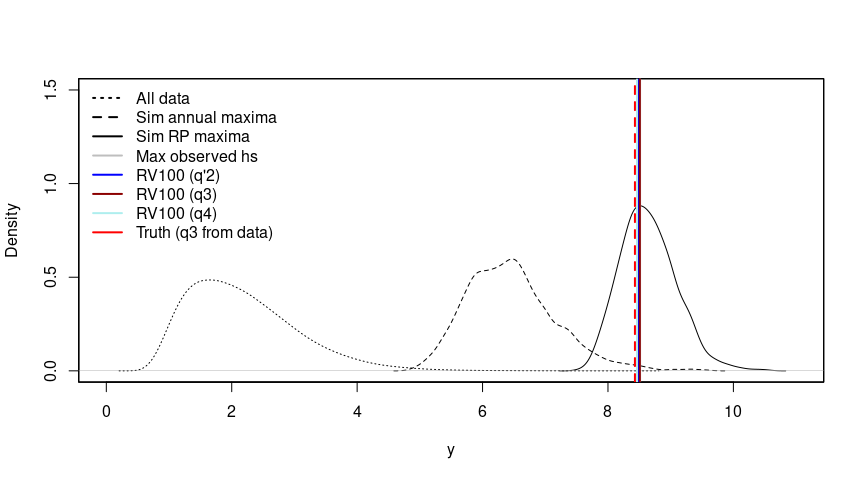
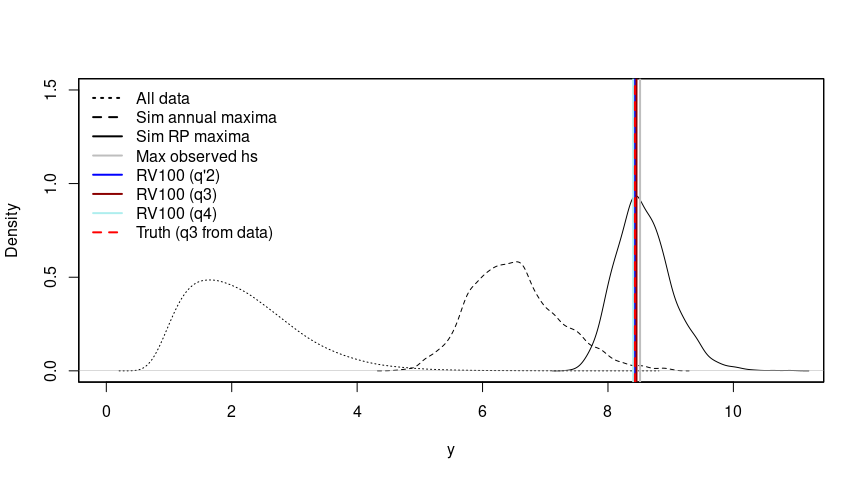
updated README

diff --git a/README.md b/README.md
@@ -58,7 +58,7 @@ system.time(df_pick <- peak_picking(ds, peak_picking_thr_model_fml,
     ## [1] "find peaks for combined storms"
 
     ##    user  system elapsed 
-    ## 277.939  26.749 304.740
+    ## 288.060  26.099 314.294
 
 ``` r
 # additional variables were added, i.e. exc, thr, and storm_idx
@@ -98,7 +98,7 @@ system.time(res_bstrp <- run_bootstrap_storms_pots(df = df_pick$storms,
 ```
 
     ##    user  system elapsed 
-    ##   7.862   0.073   7.937
+    ##  10.632   0.086  10.718
 
 ``` r
 bstrp_storms_lst <- res_bstrp$boot_samples
@@ -205,7 +205,7 @@ dhs <- diagnose_margs_preds_density(preds_margs_lst, "hs", bw=.1, xlim=c(5,40))
 
     ## [1] "summary maxes:"
     ##    Min. 1st Qu.  Median    Mean 3rd Qu.    Max. 
-    ##   11.38   13.67   14.69   15.19   15.96   37.86
+    ##   11.51   13.64   14.60   15.19   15.86   80.01
 
 ``` r
 abline(v = max(df_pick$pots$hs), col = "gray", lwd = 2)
@@ -545,9 +545,9 @@ cat(sprintf("Low sector: %.2f\nHigh sector: %.2f\nOmni: %.2f\n",
             RP_f_hmax_low, RP_f_hmax_high, RP_f_hmax))
 ```
 
-    ## Low sector: 15.22
-    ## High sector: 23.60
-    ## Omni: 24.64
+    ## Low sector: 16.33
+    ## High sector: 24.37
+    ## Omni: 25.08
 
 ## Apply to synthetic, univariate, non-stationary data
 
@@ -591,7 +591,7 @@ system.time(df_pick <- peak_picking(ds_subset, peak_picking_thr_model_fml,
     ## [1] "find peaks for combined storms"
 
     ##    user  system elapsed 
-    ##  37.811   1.174  39.009
+    ##  18.293   0.545  18.880
 
 ## Plot picking result
 
@@ -757,7 +757,7 @@ legend("topleft",
                   "Truth (q3 from data)"),
        col = c("black", "black", "black", "gray", "blue", "darkred", "paleturquoise2", "red"),
        lwd = 2,
-       lty = c(3,2,1,1,1,1,1,1),
+       lty = c(3,2,1,1,1,1,1,2),
        bty = "n")  # removes box around legend
 ```
 
@@ -771,9 +771,9 @@ cat(sprintf("Truth: %.2f\nq'2: %.2f\nq3: %.2f\nq4: %.2f\n",
 ```
 
     ## Truth: 8.43
-    ## q'2: 8.49
-    ## q3: 8.51
-    ## q4: 8.46
+    ## q'2: 8.43
+    ## q3: 8.45
+    ## q4: 8.40
 
 ## Notes
 
